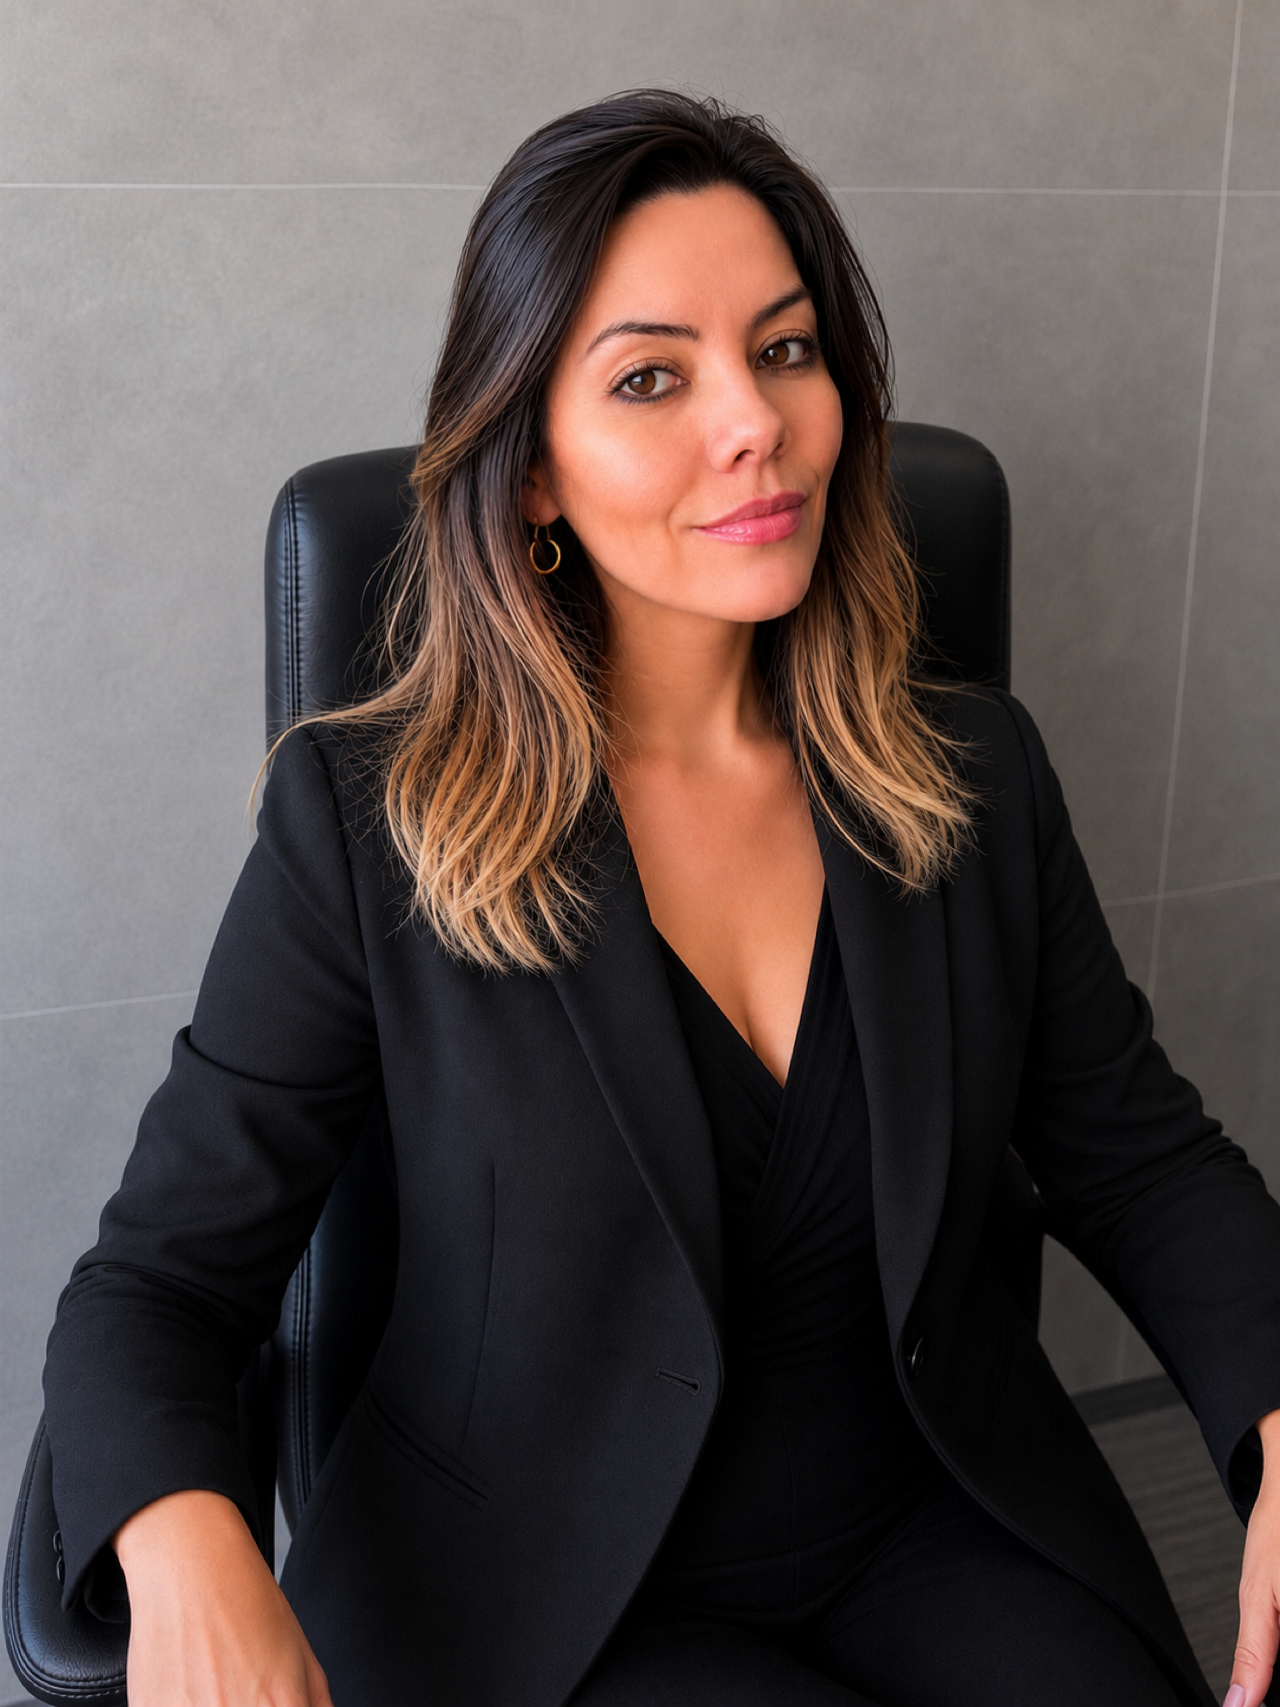
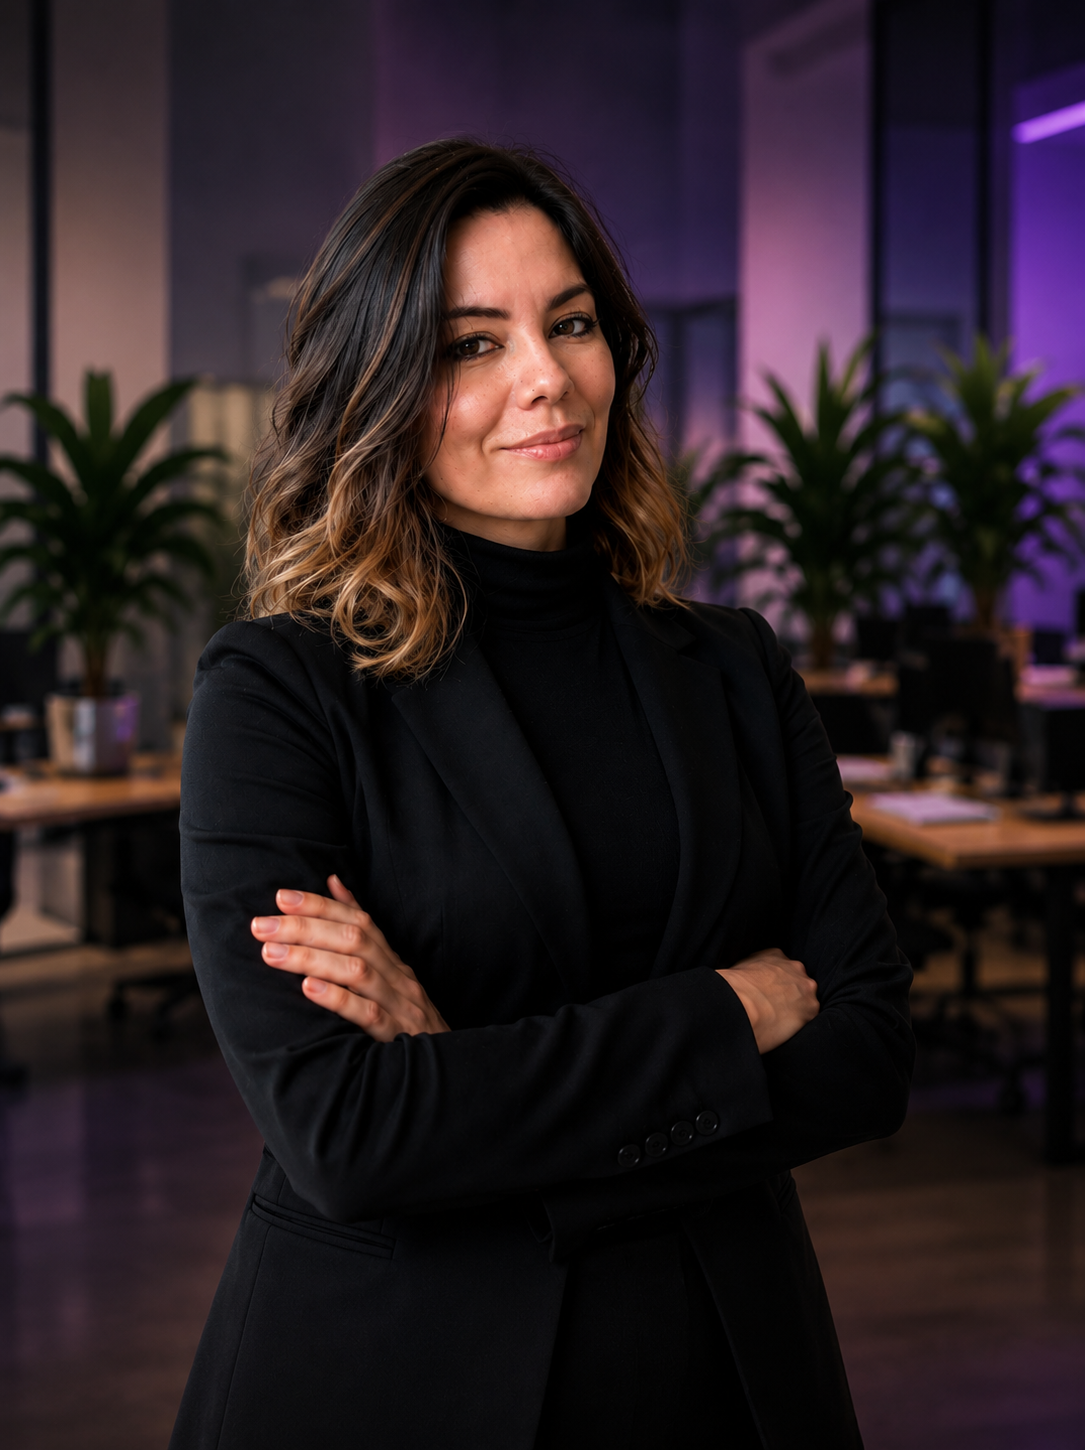
update images

diff --git a/section/Footer.tsx b/section/Footer.tsx
@@ -13,8 +13,22 @@ import { FaFacebookF, FaInstagram, FaXTwitter } from "react-icons/fa6";
 
 const FOOTER_ASSETS = {
   logo: "/images/logo/logo-smartpro-full.png",
-  payment: "/images/logo/webpay-plus.png",
 } as const;
+
+const PAYMENT_METHODS = [
+  {
+    name: "Webpay",
+    src: "/images/logo/webpay-plus.png",
+    width: 220,
+    height: 105,
+  },
+  {
+    name: "Mercado Pago",
+    src: "/images/logo/logo-mercado-pago.png",
+    width: 220,
+    height: 96,
+  },
+] as const;
 
 const CONTACT_INFO = [
   {
@@ -445,37 +459,37 @@ export default function Footer() {
               disponibles.
             </p>
 
-            {/* Webpay */}
-
-            <div
-              className="
-                mt-5
-                inline-flex
-                max-w-[210px]
-                items-center
-                justify-center
-                rounded-2xl
-                border
-                border-white/10
-                bg-white
-                p-4
-                transition-all
-                duration-300
-                hover:-translate-y-1
-                hover:shadow-[0_15px_40px_rgba(109,40,217,0.15)]
-              "
-            >
-              <Image
-                src={FOOTER_ASSETS.payment}
-                alt="Webpay"
-                width={220}
-                height={105}
-                className="
-                  h-auto
-                  w-full
-                  object-contain
-                "
-              />
+            <div className="mt-5 flex flex-wrap gap-3">
+              {PAYMENT_METHODS.map((method) => (
+                <div
+                  key={method.name}
+                  className="
+                    inline-flex
+                    h-[88px]
+                    w-[168px]
+                    items-center
+                    justify-center
+                    rounded-2xl
+                    border
+                    border-white/10
+                    bg-white
+                    px-4
+                    py-3
+                    transition-all
+                    duration-300
+                    hover:-translate-y-1
+                    hover:shadow-[0_15px_40px_rgba(109,40,217,0.15)]
+                  "
+                >
+                  <Image
+                    src={method.src}
+                    alt={method.name}
+                    width={method.width}
+                    height={method.height}
+                    className="h-full w-full object-contain"
+                  />
+                </div>
+              ))}
             </div>
           </motion.div>
 

diff --git a/section/TeamSection.tsx b/section/TeamSection.tsx
@@ -19,32 +19,32 @@ const TEAM_MEMBERS = [
   },
   {
     id: 2,
-    name: "Ariana De La Fuente",
-    role: "Ejecutiva Comercial",
-    description: "Encargada del Area comercial y equipos.",
-    image: "/images/team/ariana-de-la-fuente.png",
-  },
-  {
-    id: 3,
-    name: "Isabel Uribe",
-    role: "Office Manager",
-    description: "Encargada de la administración y gestión de proyectos.",
-    image: "/images/team/isabel-uribe.png",
-  },
-  {
-    id: 4,
-    name: "Juan Lorca",
-    role: "Ejecutivo Comercial",
-    description: "Encargado de la atención comercial y equipos.",
-    image: "/images/team/juan-lorca.png",
-  },
-  {
-    id: 5,
     name: "Alfredo Hurtado",
     role: "Desarrollador Full Stack",
     description:
       "Convierte ideas en soluciones digitales robustas, escalables y de alto rendimiento.",
     image: "/images/team/alfredo-hurtado.png",
+  },
+  {
+    id: 3,
+    name: "Nicolas Campos",
+    role: "Soporte Tecnico",
+    description: "Encargado de la atención técnica y soporte informatico.",
+    image: "/images/team/nicolas-campos.png",
+  },
+  {
+    id: 4,
+    name: "Javiera vega",
+    role: "Publicista",
+    description: "Encargada del diseño grafico y creacion de estrategias publicitarias",
+    image: "/images/team/javiera-vega.png",
+  },
+  {
+    id: 5,
+    name: "Javier Sanhueza",
+    role: "Productor Audiovisual",
+    description: "Encargado de la producción de videos y fotografía para redes sociales y campañas publicitarias.",
+    image: "/images/team/javier-sanhueza.png",
   },
 ] as const;
 
@@ -168,28 +168,7 @@ export default function TeamSection() {
 
           {/* Description */}
 
-          <motion.p
-            initial={{
-              opacity: 0,
-              y: 10,
-            }}
-            whileInView={{
-              opacity: 1,
-              y: 0,
-            }}
-            viewport={{
-              once: true,
-            }}
-            transition={{
-              duration: 0.5,
-              delay: 0.15,
-            }}
-            className="section-copy"
-          >
-            Somos un equipo multidisciplinario de estrategas, creativos y
-            especialistas en tecnología que trabajamos para impulsar tu marca y
-            alcanzar tus objetivos.
-          </motion.p>
+          
         </div>
 
         {/* ====================================================
